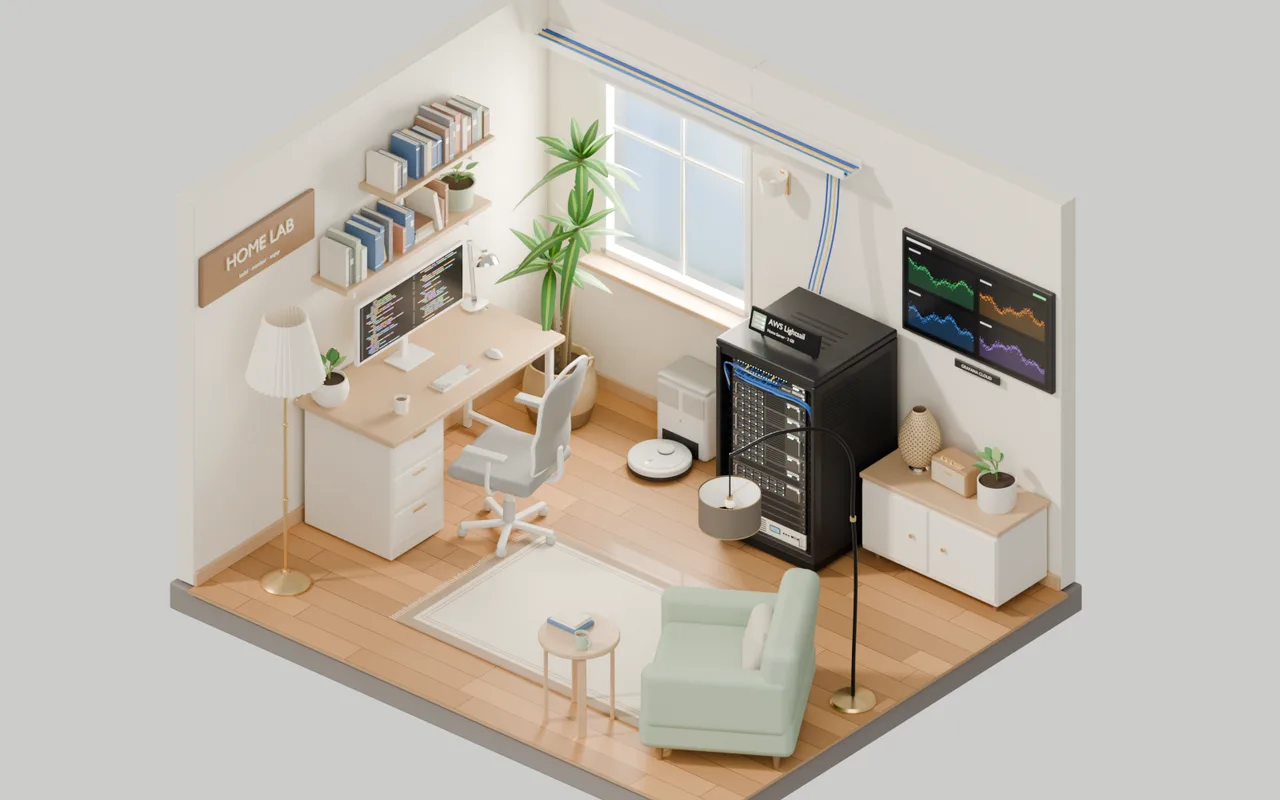
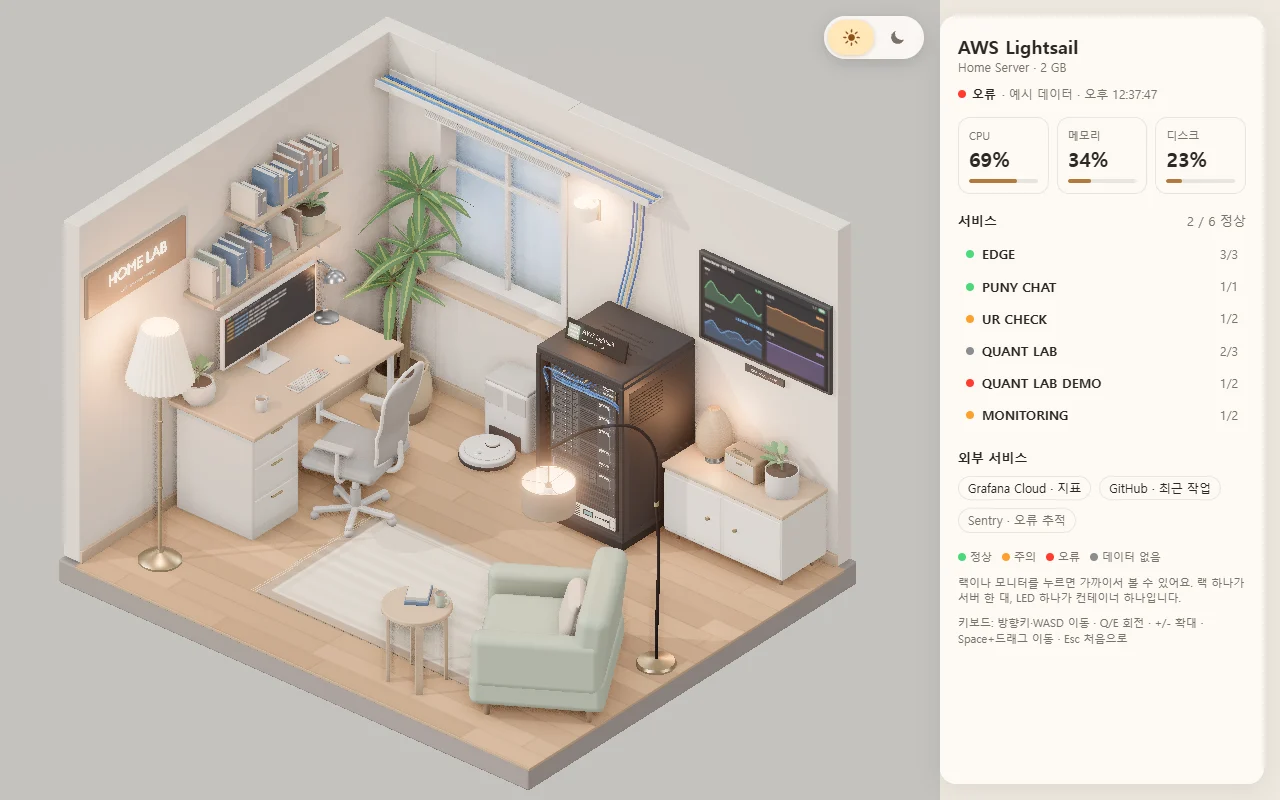
Home Server 3D를 목록 맨 위로 올리고 소개·썸네일을 다듬음 (#60)
- Home Server 3D 1번, diagram-polish 2번으로 올리고 나머지를 두 칸씩 내림
- 소개와 한 줄 설명을 짧게 줄이고 갤러리에서 낮의 랙 이미지를 뺌
- 표지를 다른 프로젝트처럼 데스크톱·휴대폰 화면 캡처로 바꿈
- AGENTS.md의 홈 첫 카드 안내를 고침

diff --git a/app/content/projects/home-server-3d/index.ts b/app/content/projects/home-server-3d/index.ts
@@ -2,8 +2,8 @@ import type { Project } from "~/lib/types";
 import { ja } from "./ja";
 import { ko } from "./ko";
 const cover = {"src":"/images/content/projects/home-server-3d/cover.webp","width":1280,"height":800};
+const mobile = {"src":"/images/content/projects/home-server-3d/mobile.webp","width":780,"height":1688};
 const night = {"src":"/images/content/projects/home-server-3d/night.webp","width":1280,"height":800};
-const rackDay = {"src":"/images/content/projects/home-server-3d/rack-day.webp","width":1000,"height":1000};
 const rackNight = {"src":"/images/content/projects/home-server-3d/rack-night.webp","width":1000,"height":1000};
 
 export const homeServer3d: Project = {
@@ -11,11 +11,11 @@ export const homeServer3d: Project = {
   name: "Home Server 3D",
   status: "live",
   label: "Open source",
-  order: 10,
+  order: 1,
 
-  tagline: "My AWS Lightsail server as a small 3D server room. The LEDs on the rack light up from the real status of each container.",
+  tagline: "A 3D server room for my AWS Lightsail server. The rack LEDs show each container's real status.",
   summary:
-    "A web page that shows one AWS Lightsail server as a miniature 3D room. Each LED on the rack is a container, and its color follows the real status, read from Grafana Cloud once a minute.",
+    "My AWS Lightsail server as a small 3D room. Each LED on the rack is a container, lit by its real status.",
   cardStack: ["Blender", "three.js", "Cloudflare"],
   facts: [
     { label: "Type", value: "3D web page · Blender scene + three.js" },
@@ -30,14 +30,14 @@ export const homeServer3d: Project = {
   },
 
   cover: {
-    main: { src: cover, alt: "An isometric room with a desk, a bookshelf, a plant, an armchair, and a black server rack with lit LEDs beside a wall monitor" },
+    main: { src: cover, alt: "The 3D server room on a desktop screen: an isometric room with a black server rack and a side panel listing six services with status lights" },
+    inset: { src: mobile, alt: "The same page on a phone, with the room above and the service list below", frame: "phone" },
     tint: ["#ece9e2", "#d3cdbf"],
   },
 
   about: [
-    "Home Server 3D shows my AWS Lightsail server as a small 3D server room. One unit in the rack is one service, and one LED on it is one container. Green is normal, orange is a warning, red is an error and gray means there is no data. Missing data is never painted green.",
-    "The wall monitor draws the last hour of CPU, memory, network and disk. The desk monitor lists recent commits from my public GitHub repositories, like git log. Day and night follow the visitor's clock, and some of the objects in the room can be clicked.",
-    "The scene is built by a Blender Python script and exported as a GLB file, and the page loads it with three.js. A small status API reads the server's metrics from Grafana Cloud and returns only normal, warning or error for each container, so the access token never reaches the browser.",
+    "Home Server 3D shows my AWS Lightsail server as a small 3D server room. One rack unit is one service and one LED is one container: green is normal, orange a warning, red an error, gray no data.",
+    "The scene is made with Blender and shown with three.js. A small status API reads only the status from Grafana Cloud, so no token reaches the browser.",
   ],
   features: [
     {
@@ -63,8 +63,7 @@ export const homeServer3d: Project = {
   ],
   gallery: [
     { src: night, alt: "The same room at night, with a warm lamp and the rack LEDs lit" },
-    { src: rackDay, alt: "A close-up of the rack by day: a switch, rack servers with drive bays and LEDs, and a UPS at the bottom" },
-    { src: rackNight, alt: "The same rack at night, glowing green and white" },
+    { src: rackNight, alt: "A close-up of the rack at night, glowing green and white" },
   ],
   stack: [
     { area: "3D", items: "Blender 5.2 · Python scene script · Cycles · glTF (GLB) with Draco" },
@@ -73,7 +72,7 @@ export const homeServer3d: Project = {
     { area: "Monitoring", items: "Grafana Cloud (Prometheus, PromQL) · Grafana Alloy · cAdvisor" },
     { area: "Deploy", items: "Cloudflare Pages · deploys on git push" },
   ],
-  footnote: "The live page shows my real server. Add ?demo=1 to the address to see sample data. The images are renders from the Blender scene.",
+  footnote: "The live page shows my real server. Add ?demo=1 to the address to see sample data. The screenshots use sample data, and the other images are renders from the Blender scene.",
 
   architecture: {
     width: 1140,

diff --git a/app/content/projects/home-server-3d/ja.ts b/app/content/projects/home-server-3d/ja.ts
@@ -3,9 +3,9 @@ import type { ProjectCopy } from "~/lib/types";
 export const ja: ProjectCopy = {
   label: "オープンソース",
   liveLabel: "サーバー室を見る",
-  tagline: "AWS Lightsailのサーバーを小さな3Dのサーバー室にしたWeb。ラックのLEDがコンテナの実際の状態に合わせて光ります。",
+  tagline: "AWS Lightsailのサーバーを小さな3Dのサーバー室にしたWeb。ラックのLEDがコンテナの実際の状態を示します。",
   summary:
-    "AWS Lightsailのサーバー1台をミニチュアの3Dの部屋として見せるWebページです。ラックのLED 1つがコンテナ1つで、色はGrafana Cloudから1分ごとに読む実際の状態に従います。",
+    "私のAWS Lightsailサーバーを小さな3Dの部屋で見せます。ラックのLED 1つがコンテナ1つで、実際の状態に合わせて光ります。",
   facts: [
     { label: "種類", value: "3D Webページ · Blenderのシーン + three.js" },
     { label: "期間", value: "2026年10月" },
@@ -13,9 +13,8 @@ export const ja: ProjectCopy = {
     { label: "運用環境", value: "Cloudflare Pages · Pages Functions" },
   ],
   about: [
-    "Home Server 3Dは、私のAWS Lightsailサーバーを小さな3Dのサーバー室として見せます。ラックに載った機器1台が1つのサービスで、機器のLED 1つが1つのコンテナです。正常は緑、注意はオレンジ、エラーは赤、データがなければグレーです。データがないのに緑にすることはありません。",
-    "壁のモニターには直近1時間のCPU・メモリ・ネットワーク・ディスクが、机のモニターには私の公開GitHubリポジトリの最近のコミットがgit logのように表示されます。昼と夜は見る人の時刻に合わせて変わり、部屋の中にはクリックできる物もあります。",
-    "シーンはBlenderのPythonスクリプトで作ってGLBファイルに書き出し、Webではthree.jsで表示します。小さなステータスAPIがGrafana Cloudからサーバーの指標を読み、コンテナごとに正常・注意・エラーだけを返すので、アクセストークンがブラウザに出ることはありません。",
+    "Home Server 3Dは、私のAWS Lightsailサーバーを小さな3Dのサーバー室として見せます。ラックの機器1台が1サービス、LED 1つが1コンテナで、正常は緑、注意はオレンジ、エラーは赤、データなしはグレーです。",
+    "シーンはBlenderで作り、three.jsで表示します。小さなステータスAPIがGrafana Cloudから状態だけを読むので、トークンがブラウザに出ることはありません。",
   ],
   features: [
     {
@@ -46,13 +45,13 @@ export const ja: ProjectCopy = {
     { area: "モニタリング", items: "Grafana Cloud（Prometheus、PromQL）· Grafana Alloy · cAdvisor" },
     { area: "デプロイ", items: "Cloudflare Pages · git pushでデプロイ" },
   ],
-  footnote: "ライブのページは私の実際のサーバーを表示します。アドレスの後ろに?demo=1を付けると、例のデータで見られます。画像はBlenderのシーンをレンダリングしたものです。",
+  footnote: "ライブのページは私の実際のサーバーを表示します。アドレスの後ろに?demo=1を付けると、例のデータで見られます。スクリーンショットは例のデータで、そのほかの画像はBlenderのシーンをレンダリングしたものです。",
   alts: {
-    main: "机、本棚、観葉植物、ひじ掛け椅子のあるアイソメトリックの部屋と、壁のモニターの横でLEDが光る黒いサーバーラック",
+    main: "デスクトップ画面の3Dサーバー室。黒いサーバーラックのあるアイソメトリックの部屋と、6つのサービスの状態ランプが並ぶ右のパネル",
+    inset: "同じページをスマホで見た様子。上に部屋、下にサービス一覧",
     gallery: [
       "同じ部屋の夜の様子。暖かい照明と光るラックのLED",
-      "昼のラックのアップ。スイッチ、ドライブベイとLEDのあるサーバー数台、いちばん下にUPS",
-      "同じラックの夜の様子。緑と白に光っている",
+      "夜のラックのアップ。緑と白に光っている",
     ],
   },
 };

diff --git a/app/content/projects/home-server-3d/ko.ts b/app/content/projects/home-server-3d/ko.ts
@@ -3,9 +3,9 @@ import type { ProjectCopy } from "~/lib/types";
 export const ko: ProjectCopy = {
   label: "오픈 소스",
   liveLabel: "서버실 열어 보기",
-  tagline: "AWS Lightsail 서버를 작은 3D 서버실로 만든 웹. 랙의 LED가 컨테이너의 실제 상태에 따라 켜집니다.",
+  tagline: "AWS Lightsail 서버를 작은 3D 서버실로 만든 웹. 랙의 LED가 컨테이너의 실제 상태를 보여 줍니다.",
   summary:
-    "AWS Lightsail 서버 한 대를 미니어처 3D 방으로 보여 주는 웹 페이지입니다. 랙의 LED 하나가 컨테이너 하나이고, 색은 Grafana Cloud에서 1분마다 읽어 온 실제 상태를 따릅니다.",
+    "제 AWS Lightsail 서버를 작은 3D 방으로 보여 줍니다. 랙의 LED 하나가 컨테이너 하나이고, 실제 상태에 따라 켜집니다.",
   facts: [
     { label: "종류", value: "3D 웹 페이지 · Blender 장면 + three.js" },
     { label: "기간", value: "2026년 10월" },
@@ -13,9 +13,8 @@ export const ko: ProjectCopy = {
     { label: "운영 환경", value: "Cloudflare Pages · Pages Functions" },
   ],
   about: [
-    "Home Server 3D는 제 AWS Lightsail 서버를 작은 3D 서버실로 보여 줍니다. 랙에 꽂힌 장비 하나가 서비스 하나이고, 장비의 LED 하나가 컨테이너 하나입니다. 정상은 초록, 주의는 주황, 오류는 빨강, 데이터가 없으면 회색입니다. 데이터가 없을 때 초록으로 칠하는 일은 없습니다.",
-    "벽 모니터에는 최근 1시간의 CPU·메모리·네트워크·디스크가, 책상 모니터에는 제 공개 GitHub 저장소의 최근 커밋이 git log처럼 뜹니다. 낮과 밤은 보는 사람의 시각에 맞춰 바뀌고, 방 안 물건 중에는 눌러 볼 수 있는 것도 있습니다.",
-    "장면은 Blender Python 스크립트로 만들어 GLB 파일로 내보내고, 웹에서는 three.js로 띄웁니다. 작은 상태 API가 Grafana Cloud에서 서버 지표를 읽어 컨테이너마다 정상·주의·오류만 돌려주므로, 접근 토큰은 브라우저로 나가지 않습니다.",
+    "Home Server 3D는 제 AWS Lightsail 서버를 작은 3D 서버실로 보여 줍니다. 랙의 장비 하나가 서비스 하나, LED 하나가 컨테이너 하나이고, 정상은 초록·주의는 주황·오류는 빨강·데이터 없음은 회색입니다.",
+    "장면은 Blender로 만들어 three.js로 띄웁니다. 작은 상태 API가 Grafana Cloud에서 상태만 읽어 오므로 토큰은 브라우저로 나가지 않습니다.",
   ],
   features: [
     {
@@ -46,13 +45,13 @@ export const ko: ProjectCopy = {
     { area: "모니터링", items: "Grafana Cloud(Prometheus, PromQL) · Grafana Alloy · cAdvisor" },
     { area: "배포", items: "Cloudflare Pages · git push로 배포" },
   ],
-  footnote: "라이브 페이지는 제 실제 서버를 보여 줍니다. 주소 뒤에 ?demo=1을 붙이면 예시 데이터로 볼 수 있습니다. 이미지는 Blender 장면을 렌더한 것입니다.",
+  footnote: "라이브 페이지는 제 실제 서버를 보여 줍니다. 주소 뒤에 ?demo=1을 붙이면 예시 데이터로 볼 수 있습니다. 스크린샷은 예시 데이터이고, 나머지 이미지는 Blender 장면을 렌더한 것입니다.",
   alts: {
-    main: "책상, 책장, 화분, 안락의자가 있는 아이소메트릭 방과, 벽 모니터 옆에 LED가 켜진 검은 서버 랙",
+    main: "데스크톱 화면의 3D 서버실. 검은 서버 랙이 있는 아이소메트릭 방과, 서비스 여섯 개의 상태등이 있는 오른쪽 패널",
+    inset: "같은 페이지를 휴대폰으로 본 모습. 위에 방, 아래에 서비스 목록",
     gallery: [
       "같은 방의 밤 모습. 따뜻한 조명과 불이 켜진 랙 LED",
-      "낮의 랙 근접 모습. 스위치, 드라이브 베이와 LED가 있는 서버들, 맨 아래 UPS",
-      "같은 랙의 밤 모습. 초록색과 흰색으로 빛남",
+      "밤의 랙 근접 모습. 초록색과 흰색으로 빛남",
     ],
   },
 };

diff --git a/app/content/projects/pokepedia/index.ts b/app/content/projects/pokepedia/index.ts
@@ -14,7 +14,7 @@ export const pokepedia: Project = {
   name: "Pokepedia",
   status: "live",
   label: "Remake",
-  order: 5,
+  order: 7,
 
   tagline:
     "“Who's that Pokémon?” as a Game Boy–style battle, with a Gen 1 Pokédex and a sticker book — plus a turn-based Pikachu battle I built in Unity. In Korean, English and Japanese.",

diff --git a/app/content/projects/ur-check/index.ts b/app/content/projects/ur-check/index.ts
@@ -14,7 +14,7 @@ export const urCheck: Project = {
   status: "live",
   label: "Invite only · I use it",
   highlightLabel: true,
-  order: 2,
+  order: 4,
 
   tagline:
     "Search UR rental vacancies by your conditions and track rooms that are new, relisted or gone. The website and AI assistants work from the same conditions and history.",

diff --git a/app/content/projects/trading-lab/index.ts b/app/content/projects/trading-lab/index.ts
@@ -14,7 +14,7 @@ export const tradingLab: Project = {
   status: "live",
   label: "Real trades at 1/100",
   highlightLabel: true,
-  order: 4,
+  order: 6,
 
   tagline: "A payday investing bot that copies your habits, and AI bots that set the mix every day. All of them run on my real account at 1/100 scale.",
   summary:

diff --git a/app/content/projects/diagram-polish/index.ts b/app/content/projects/diagram-polish/index.ts
@@ -10,7 +10,7 @@ export const diagramPolish: Project = {
   name: "diagram-polish",
   status: "live",
   label: "Open source",
-  order: 9,
+  order: 2,
 
   tagline: "A Claude Code skill that redraws a Mermaid block or an architecture sketch as a clean diagram. Boxes and arrows in JSON, SVG and PNG out.",
   summary:

diff --git a/app/content/projects/henry-wallet/index.ts b/app/content/projects/henry-wallet/index.ts
@@ -14,7 +14,7 @@ export const henryWallet: Project = {
   name: "Henry Wallet",
   status: "testing",
   label: "Side project",
-  order: 8,
+  order: 10,
 
   tagline: "A self-custody stablecoin wallet for iPhone. The keys stay on the phone, and every payment is signed there after Face ID.",
   summary:

diff --git a/app/content/projects/gitleaf/index.ts b/app/content/projects/gitleaf/index.ts
@@ -9,7 +9,7 @@ export const gitleaf: Project = {
   name: "GitLeaf",
   status: "live",
   label: "Free to use",
-  order: 3,
+  order: 5,
 
   tagline: "Your year of GitHub contributions, painted as a watercolor plant: one leaf for each day. Paste one line into your README to use it.",
   summary:

diff --git a/app/content/projects/ur-mcp/index.ts b/app/content/projects/ur-mcp/index.ts
@@ -10,7 +10,7 @@ export const urMcp: Project = {
   status: "archived",
   label: "Merged into UR Check",
   mergedInto: "ur-check",
-  order: 7,
+  order: 9,
 
   tagline: "A former MCP app for finding UR vacancies in Claude and ChatGPT, now part of UR Check.",
   summary:

diff --git a/app/content/projects/ur-manager/index.ts b/app/content/projects/ur-manager/index.ts
@@ -11,7 +11,7 @@ export const urManager: Project = {
   status: "archived",
   label: "Merged into UR Check",
   mergedInto: "ur-check",
-  order: 6,
+  order: 8,
 
   tagline:
     "A former UR vacancy search and email alert service, now part of UR Check.",

diff --git a/app/content/projects/puny-chat/index.ts b/app/content/projects/puny-chat/index.ts
@@ -13,7 +13,7 @@ export const punyChat: Project = {
   name: "Puny Chat",
   status: "live",
   label: "App Store soon",
-  order: 1,
+  order: 3,
 
   tagline: "A messenger for two, with a tiny pixel buddy you raise together just by chatting.",
   summary:
